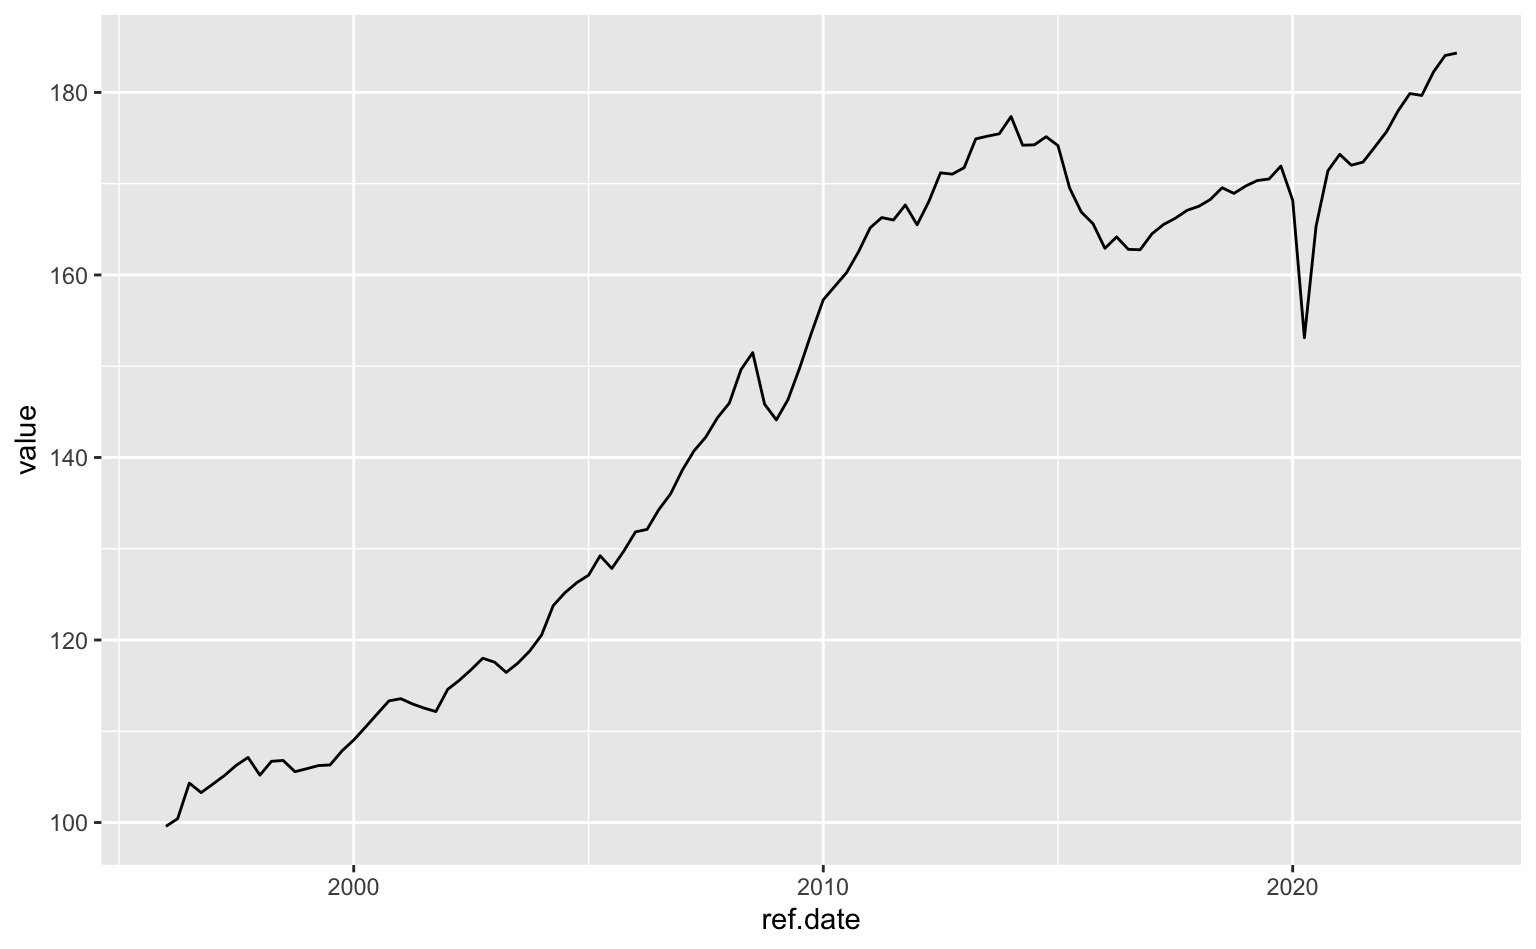
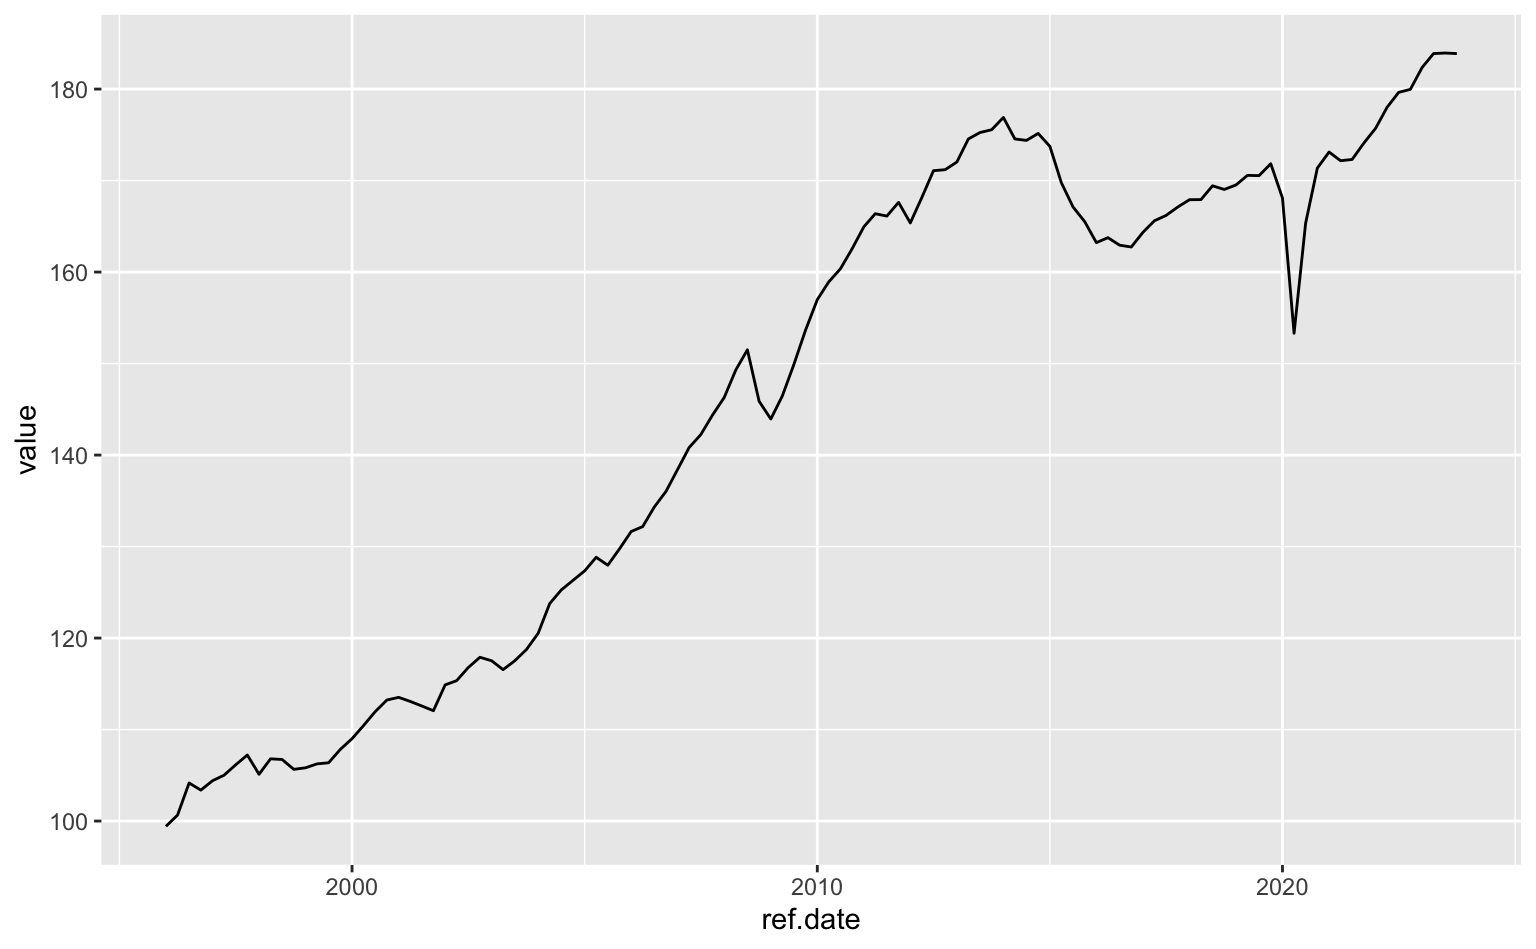
update recession dating

diff --git a/_site/posts/ggplot2-tutorial/5-grafico-text.html b/_site/posts/ggplot2-tutorial/5-grafico-text.html
@@ -461,12 +461,12 @@ gtag('config', 'G-EJF8PGT67H', { 'anonymize_ip': true});
 <div class="sourceCode cell-code" id="cb11"><pre class="sourceCode r code-with-copy"><code class="sourceCode r"><span id="cb11-1"><a href="#cb11-1" aria-hidden="true" tabindex="-1"></a>codace <span class="ot">&lt;-</span> <span class="fu">tribble</span>(</span>
 <span id="cb11-2"><a href="#cb11-2" aria-hidden="true" tabindex="-1"></a>            <span class="sc">~</span>rec_start,               <span class="sc">~</span>rec_end, <span class="sc">~</span>label,</span>
 <span id="cb11-3"><a href="#cb11-3" aria-hidden="true" tabindex="-1"></a>  <span class="co">#-------------------#----------------------#----------#</span></span>
-<span id="cb11-4"><a href="#cb11-4" aria-hidden="true" tabindex="-1"></a>  <span class="fu">as.Date</span>(<span class="st">"1998-01-01"</span>), <span class="fu">as.Date</span>(<span class="st">"1999-03-31"</span>), <span class="st">"FHC-1"</span>,</span>
-<span id="cb11-5"><a href="#cb11-5" aria-hidden="true" tabindex="-1"></a>  <span class="fu">as.Date</span>(<span class="st">"2001-04-01"</span>), <span class="fu">as.Date</span>(<span class="st">"2001-12-31"</span>), <span class="st">"FHC-2"</span>,</span>
-<span id="cb11-6"><a href="#cb11-6" aria-hidden="true" tabindex="-1"></a>  <span class="fu">as.Date</span>(<span class="st">"2003-01-01"</span>), <span class="fu">as.Date</span>(<span class="st">"2003-06-30"</span>), <span class="st">"LULA"</span>,</span>
-<span id="cb11-7"><a href="#cb11-7" aria-hidden="true" tabindex="-1"></a>  <span class="fu">as.Date</span>(<span class="st">"2008-10-01"</span>), <span class="fu">as.Date</span>(<span class="st">"2009-03-31"</span>), <span class="st">"GFR"</span>,</span>
-<span id="cb11-8"><a href="#cb11-8" aria-hidden="true" tabindex="-1"></a>  <span class="fu">as.Date</span>(<span class="st">"2014-04-01"</span>), <span class="fu">as.Date</span>(<span class="st">"2016-12-31"</span>), <span class="st">"DILMA"</span>,</span>
-<span id="cb11-9"><a href="#cb11-9" aria-hidden="true" tabindex="-1"></a>  <span class="fu">as.Date</span>(<span class="st">"2020-01-01"</span>), <span class="fu">as.Date</span>(<span class="st">"2020-06-30"</span>), <span class="st">"COVID"</span></span>
+<span id="cb11-4"><a href="#cb11-4" aria-hidden="true" tabindex="-1"></a>  <span class="fu">as.Date</span>(<span class="st">"1997-10-01"</span>), <span class="fu">as.Date</span>(<span class="st">"1999-01-01"</span>), <span class="st">"FHC-1"</span>,</span>
+<span id="cb11-5"><a href="#cb11-5" aria-hidden="true" tabindex="-1"></a>  <span class="fu">as.Date</span>(<span class="st">"2001-01-01"</span>), <span class="fu">as.Date</span>(<span class="st">"2001-10-01"</span>), <span class="st">"FHC-2"</span>,</span>
+<span id="cb11-6"><a href="#cb11-6" aria-hidden="true" tabindex="-1"></a>  <span class="fu">as.Date</span>(<span class="st">"2002-10-01"</span>), <span class="fu">as.Date</span>(<span class="st">"2003-04-01"</span>), <span class="st">"LULA"</span>,</span>
+<span id="cb11-7"><a href="#cb11-7" aria-hidden="true" tabindex="-1"></a>  <span class="fu">as.Date</span>(<span class="st">"2008-07-01"</span>), <span class="fu">as.Date</span>(<span class="st">"2009-01-01"</span>), <span class="st">"GFR"</span>,</span>
+<span id="cb11-8"><a href="#cb11-8" aria-hidden="true" tabindex="-1"></a>  <span class="fu">as.Date</span>(<span class="st">"2014-01-01"</span>), <span class="fu">as.Date</span>(<span class="st">"2016-10-01"</span>), <span class="st">"DILMA"</span>,</span>
+<span id="cb11-9"><a href="#cb11-9" aria-hidden="true" tabindex="-1"></a>  <span class="fu">as.Date</span>(<span class="st">"2019-10-01"</span>), <span class="fu">as.Date</span>(<span class="st">"2020-04-01"</span>), <span class="st">"COVID"</span></span>
 <span id="cb11-10"><a href="#cb11-10" aria-hidden="true" tabindex="-1"></a>)</span></code><button title="Copy to Clipboard" class="code-copy-button"><i class="bi"></i></button></pre></div>
 </div>
 <p>O código abaixo gera o mesmo gráfico do PIB, mas agora temos retângulos sombreados destacando cada uma das recessões da história econômica recente do Brasil.</p>
@@ -1459,12 +1459,12 @@ window.document.addEventListener("DOMContentLoaded", function (event) {
 <span id="cb33-243"><a href="#cb33-243" aria-hidden="true" tabindex="-1"></a>codace <span class="ot">&lt;-</span> <span class="fu">tribble</span>(</span>
 <span id="cb33-244"><a href="#cb33-244" aria-hidden="true" tabindex="-1"></a>            <span class="sc">~</span>rec_start,               <span class="sc">~</span>rec_end, <span class="sc">~</span>label,</span>
 <span id="cb33-245"><a href="#cb33-245" aria-hidden="true" tabindex="-1"></a>  <span class="co">#-------------------#----------------------#----------#</span></span>
-<span id="cb33-246"><a href="#cb33-246" aria-hidden="true" tabindex="-1"></a>  <span class="fu">as.Date</span>(<span class="st">"1998-01-01"</span>), <span class="fu">as.Date</span>(<span class="st">"1999-03-31"</span>), <span class="st">"FHC-1"</span>,</span>
-<span id="cb33-247"><a href="#cb33-247" aria-hidden="true" tabindex="-1"></a>  <span class="fu">as.Date</span>(<span class="st">"2001-04-01"</span>), <span class="fu">as.Date</span>(<span class="st">"2001-12-31"</span>), <span class="st">"FHC-2"</span>,</span>
-<span id="cb33-248"><a href="#cb33-248" aria-hidden="true" tabindex="-1"></a>  <span class="fu">as.Date</span>(<span class="st">"2003-01-01"</span>), <span class="fu">as.Date</span>(<span class="st">"2003-06-30"</span>), <span class="st">"LULA"</span>,</span>
-<span id="cb33-249"><a href="#cb33-249" aria-hidden="true" tabindex="-1"></a>  <span class="fu">as.Date</span>(<span class="st">"2008-10-01"</span>), <span class="fu">as.Date</span>(<span class="st">"2009-03-31"</span>), <span class="st">"GFR"</span>,</span>
-<span id="cb33-250"><a href="#cb33-250" aria-hidden="true" tabindex="-1"></a>  <span class="fu">as.Date</span>(<span class="st">"2014-04-01"</span>), <span class="fu">as.Date</span>(<span class="st">"2016-12-31"</span>), <span class="st">"DILMA"</span>,</span>
-<span id="cb33-251"><a href="#cb33-251" aria-hidden="true" tabindex="-1"></a>  <span class="fu">as.Date</span>(<span class="st">"2020-01-01"</span>), <span class="fu">as.Date</span>(<span class="st">"2020-06-30"</span>), <span class="st">"COVID"</span></span>
+<span id="cb33-246"><a href="#cb33-246" aria-hidden="true" tabindex="-1"></a>  <span class="fu">as.Date</span>(<span class="st">"1997-10-01"</span>), <span class="fu">as.Date</span>(<span class="st">"1999-01-01"</span>), <span class="st">"FHC-1"</span>,</span>
+<span id="cb33-247"><a href="#cb33-247" aria-hidden="true" tabindex="-1"></a>  <span class="fu">as.Date</span>(<span class="st">"2001-01-01"</span>), <span class="fu">as.Date</span>(<span class="st">"2001-10-01"</span>), <span class="st">"FHC-2"</span>,</span>
+<span id="cb33-248"><a href="#cb33-248" aria-hidden="true" tabindex="-1"></a>  <span class="fu">as.Date</span>(<span class="st">"2002-10-01"</span>), <span class="fu">as.Date</span>(<span class="st">"2003-04-01"</span>), <span class="st">"LULA"</span>,</span>
+<span id="cb33-249"><a href="#cb33-249" aria-hidden="true" tabindex="-1"></a>  <span class="fu">as.Date</span>(<span class="st">"2008-07-01"</span>), <span class="fu">as.Date</span>(<span class="st">"2009-01-01"</span>), <span class="st">"GFR"</span>,</span>
+<span id="cb33-250"><a href="#cb33-250" aria-hidden="true" tabindex="-1"></a>  <span class="fu">as.Date</span>(<span class="st">"2014-01-01"</span>), <span class="fu">as.Date</span>(<span class="st">"2016-10-01"</span>), <span class="st">"DILMA"</span>,</span>
+<span id="cb33-251"><a href="#cb33-251" aria-hidden="true" tabindex="-1"></a>  <span class="fu">as.Date</span>(<span class="st">"2019-10-01"</span>), <span class="fu">as.Date</span>(<span class="st">"2020-04-01"</span>), <span class="st">"COVID"</span></span>
 <span id="cb33-252"><a href="#cb33-252" aria-hidden="true" tabindex="-1"></a>)</span>
 <span id="cb33-253"><a href="#cb33-253" aria-hidden="true" tabindex="-1"></a></span>
 <span id="cb33-254"><a href="#cb33-254" aria-hidden="true" tabindex="-1"></a><span class="in">```</span></span>
